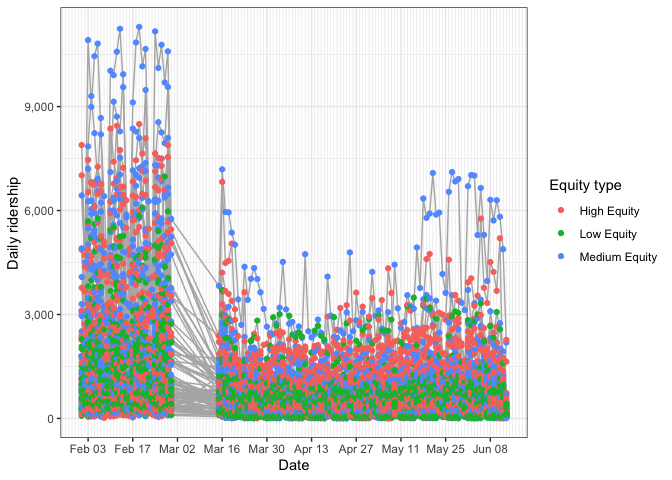
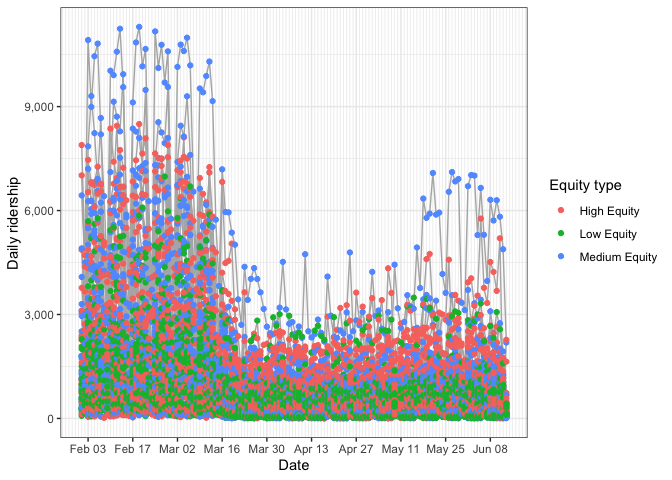
update march

Changed region(s): [[0.25, 0.0625, 0.3438, 0.875]]

diff --git a/pgh.md b/pgh.md
@@ -1,8 +1,10 @@
 Pittsburgh Bus Data Analysis
 ================
 
-[Bus fare collection was resumed
-June 8th.](https://www.portauthority.org/covid-19/coronavirus/)
+[Fare free began March 25th and ended
+June 8th.](https://www.portauthority.org/covid-19/coronavirus/) ![Dates
+of major
+events](major_events.png)
 
 ![](pgh_files/figure-gfm/unnamed-chunk-3-1.png)<!-- -->
 
